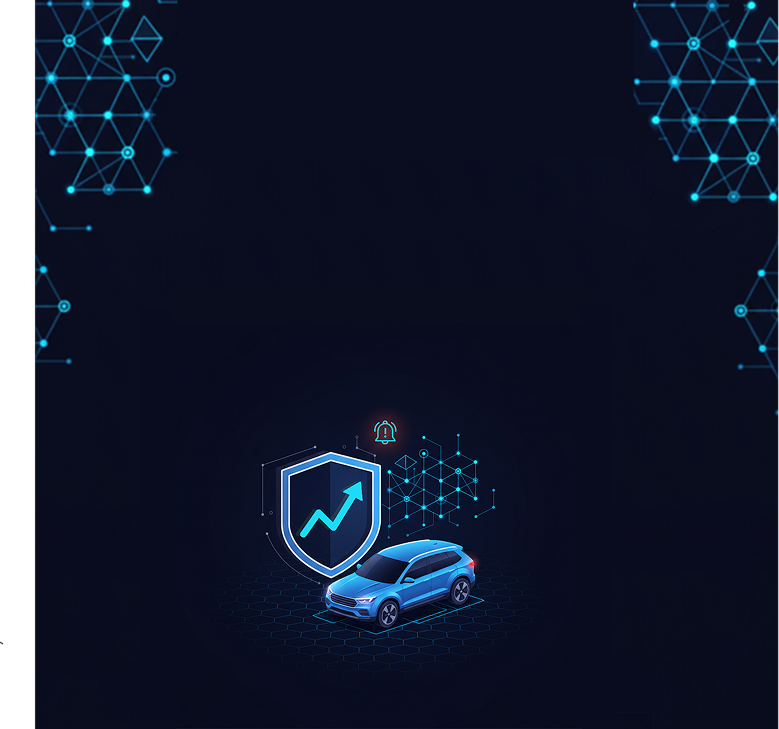
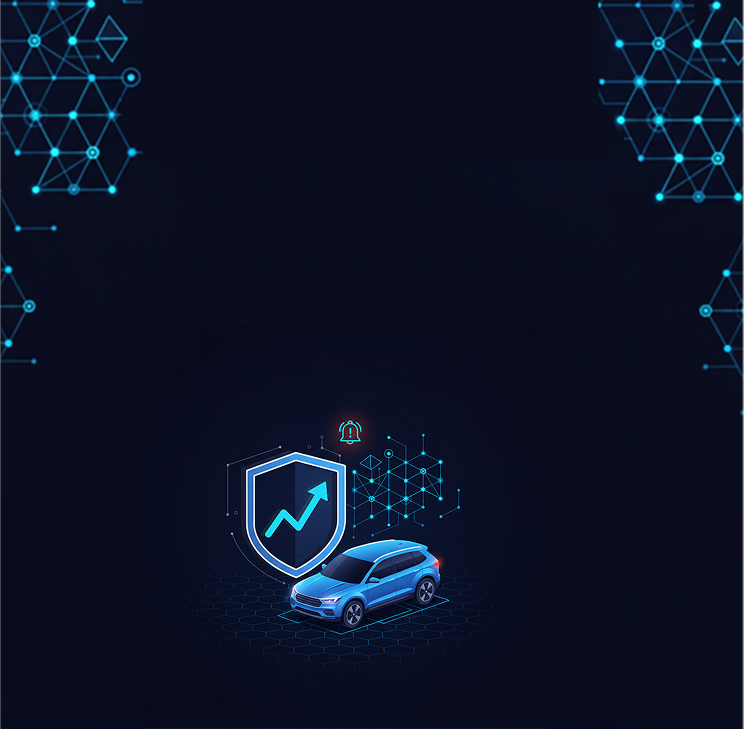
feat: adicionar slide de marcas

diff --git a/src/Features/Fipe/useFipe.js b/src/Features/Fipe/useFipe.js
@@ -101,6 +101,24 @@ export const useFipeForm = () => {
 
   const isLoading = loadingDetails
 
+  const { data: carsBrands } = useBrands('cars')
+  const { data: motorcyclesBrands } = useBrands('motorcycles')
+  const { data: trucksBrands } = useBrands('trucks')
+
+  const allBrands = [
+    ...(carsBrands?.map((b) => ({ ...b, type: 'cars' })) || []),
+    ...(motorcyclesBrands?.map((b) => ({ ...b, type: 'motorcycles' })) || []),
+    ...(trucksBrands?.map((b) => ({ ...b, type: 'trucks' })) || [])
+  ]
+
+  const handleBrandsSlider = (brand) => {
+    setVehicleType(brand.type)
+    setSelectedBrand(brand.code)
+    setSelectedModel('')
+    setSelectedYear('')
+    setShouldFetch(false)
+  }
+
   const handleVehicleChange = (e) => {
     setVehicleType(e.value)
     setSelectedBrand('')
@@ -143,11 +161,17 @@ export const useFipeForm = () => {
     years,
     fipeDetails,
     isLoading,
+    allBrands,
     resetForm,
     handleSubmit,
     handleVehicleChange,
     handleBrandChange,
     handleModelChange,
-    handleYearChange
+    handleYearChange,
+    handleBrandsSlider,
+    setVehicleType,
+    setSelectedBrand,
+    setSelectedModel,
+    setSelectedYear
   }
 }

diff --git a/src/App.jsx b/src/App.jsx
@@ -5,20 +5,33 @@ import MainBanner from './components/Banner/MainBanner'
 import FipeContainer from './components/Fipe/FipeContainer'
 import Footer from './components/Footer'
 import MonitoringFeatureBanner from './components/Banner/MonitoringFeatureBanner'
+import { useFipeForm } from './Features/Fipe/useFipe'
+import BrandsCarousel from './components/BrandsCarousel'
 
 const queryClient = new QueryClient()
 
 const App = () => {
   return (
     <QueryClientProvider client={queryClient}>
+      <AppWithFipe />
+    </QueryClientProvider>
+  )
+}
+
+const AppWithFipe = () => {
+  const fipeForm = useFipeForm()
+
+  return (
+    <>
       <Navbar />
       <MainBanner />
+      <BrandsCarousel fipeForm={fipeForm} />
       <MonitoringFeatureBanner />
       <div className="container">
-        <FipeContainer />
+        <FipeContainer fipeForm={fipeForm} />
       </div>
       <Footer />
-    </QueryClientProvider>
+    </>
   )
 }
 

diff --git a/src/components/BrandsCarousel/index.jsx b/src/components/BrandsCarousel/index.jsx
@@ -1,0 +1,27 @@
+import Marquee from 'react-fast-marquee'
+import styles from './Styles.module.scss'
+import { Link } from 'react-scroll'
+
+const BrandsCarousel = ({ fipeForm }) => {
+  const { allBrands } = fipeForm
+
+  return (
+    <div className={styles.container}>
+      <Marquee pauseOnHover speed={60}>
+        <ul>
+          {allBrands.map((brand) => (
+            <div key={brand.code}>
+              <Link to="consult" smooth={true} offset={-80} duration={500}>
+                <li onClick={() => fipeForm.handleBrandsSlider(brand)}>
+                  {brand.name}
+                </li>
+              </Link>
+            </div>
+          ))}
+        </ul>
+      </Marquee>
+    </div>
+  )
+}
+
+export default BrandsCarousel

diff --git a/src/components/BrandsCarousel/Styles.module.scss b/src/components/BrandsCarousel/Styles.module.scss
@@ -1,0 +1,29 @@
+.container {
+    padding: 4rem;
+
+  ul {
+    display: flex;
+    gap: 24px;
+  }
+
+  li {
+    padding: 24px 24px;
+    background-color: var(--card-color);
+    color: var(--text-color);
+    border-radius: 8px;
+    text-transform: uppercase;
+    cursor: pointer;
+  }
+}
+
+@media (max-width: 767px) {
+.container {
+  padding: 1rem;
+  margin-top: 1rem;
+  margin-bottom: 1rem;
+
+  li {
+    padding: 12px 12px;
+  }
+}
+}

diff --git a/src/components/Fipe/FipeContainer/index.jsx b/src/components/Fipe/FipeContainer/index.jsx
@@ -2,10 +2,10 @@ import { useState } from 'react'
 import { useFipeForm } from '../../../Features/Fipe/useFipe'
 import FipeView from '../FipeView'
 
-const FipeContainer = () => {
+const FipeContainer = ({ fipeForm }) => {
   const [showCompare, setShowCompare] = useState(false)
 
-  const fipeForm1 = useFipeForm()
+  const fipeForm1 = fipeForm
   const fipeForm2 = useFipeForm()
   const isLoading = fipeForm1.isLoading || fipeForm2.isLoading
 

diff --git a/src/components/Banner/MonitoringFeatureBanner/Styles.module.scss b/src/components/Banner/MonitoringFeatureBanner/Styles.module.scss
@@ -6,7 +6,7 @@
   background-position: center;
   width: 100%;
   height: 400px;
-  margin-top: 10em;
+  // margin-top: 4em;
 
   &::after {
     content: '';
